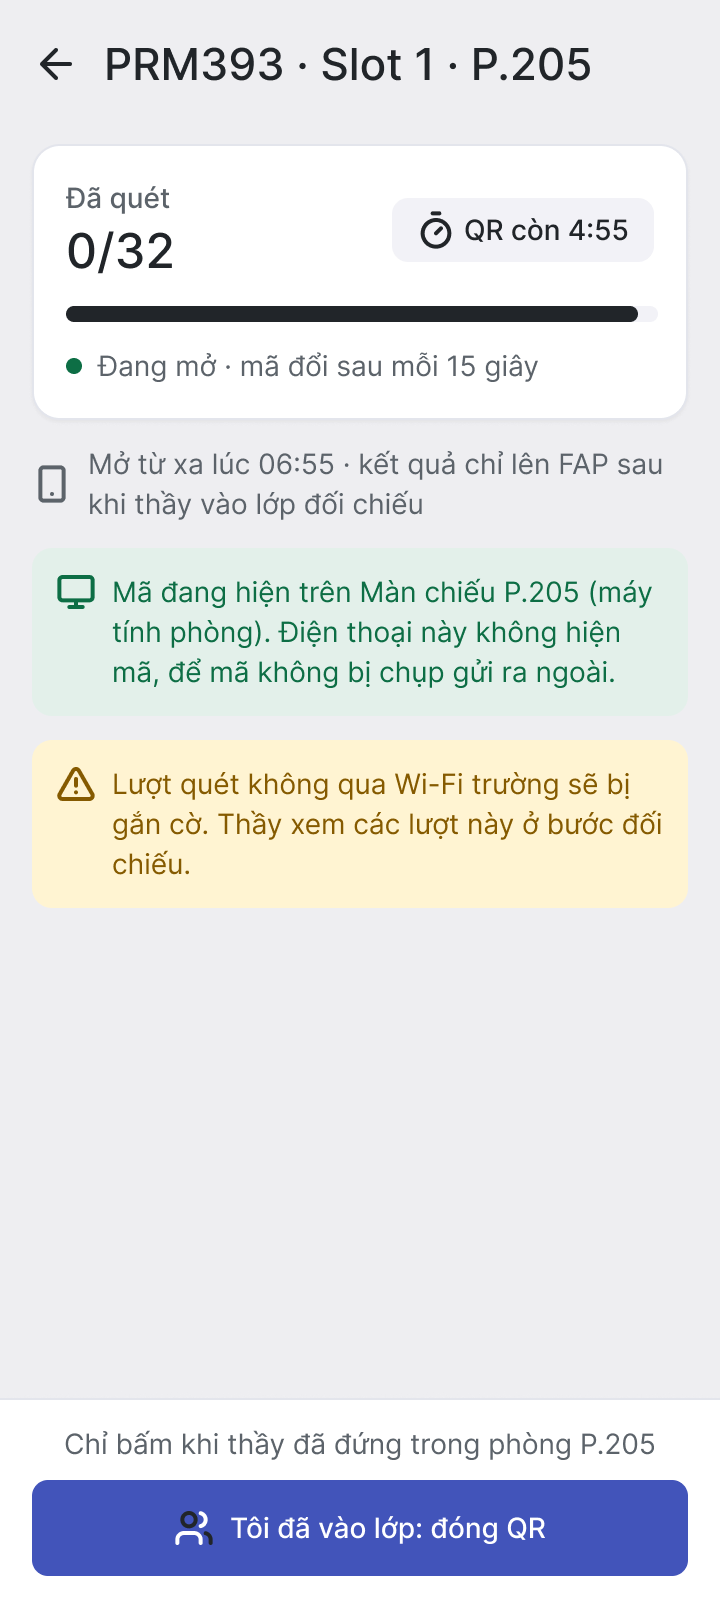
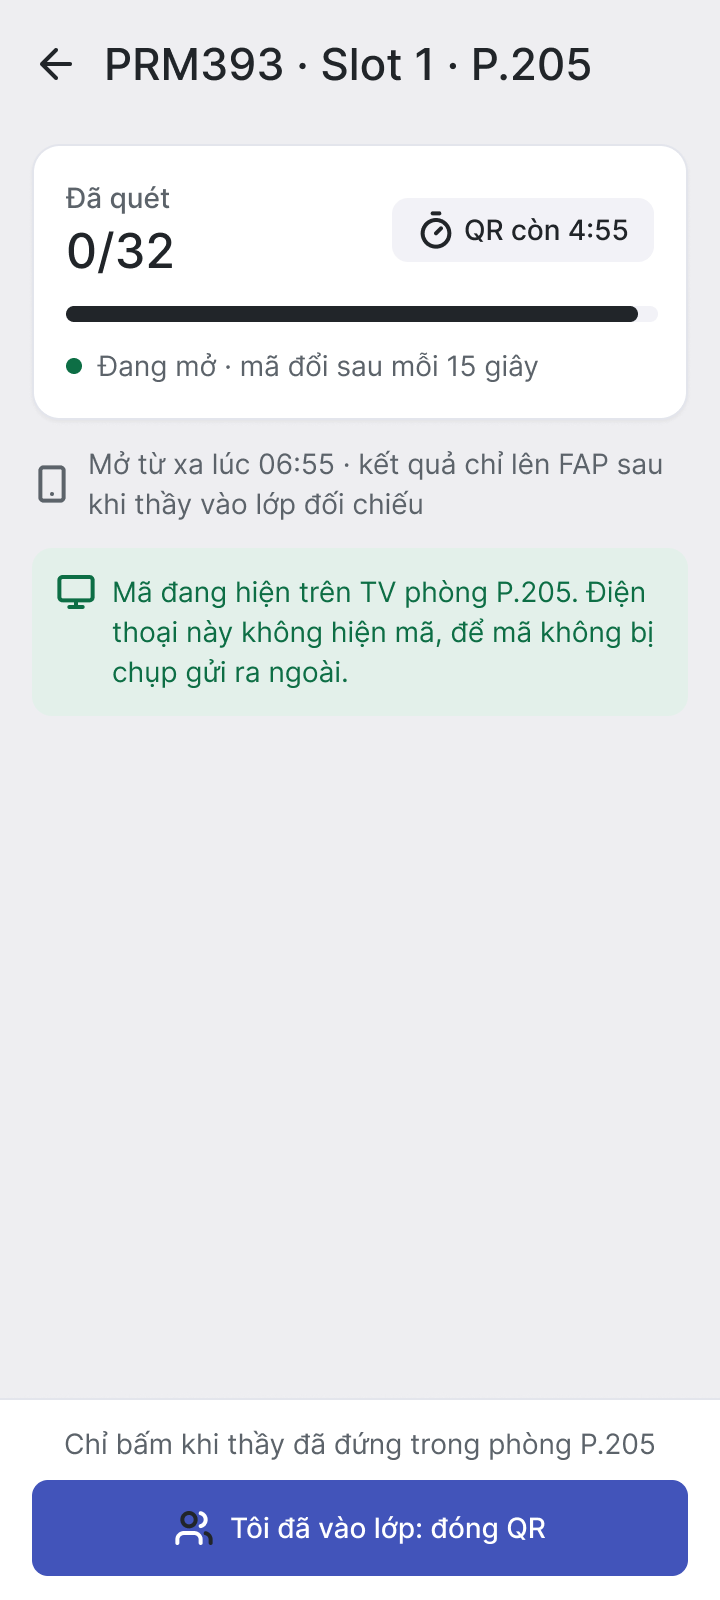
Room TV screen instead of projector, drop the Wi-Fi flag (D-24 reopened), D-07: Claude executes Figma, thien reviews
Claude-Session: https://claude.ai/code/session_01MPJuKeLL2fQwoXmpsr75wd

Changed region(s): [[0.0306, 0.3438, 0.9778, 0.5938]]

diff --git a/design/figma-build.md b/design/figma-build.md
@@ -3,7 +3,7 @@
 | Thuộc tính | Giá trị |
 |---|---|
 | Mã tài liệu | DES-FIGMA-IT3 |
-| Trạng thái | IT-3b: đã sửa theo góp ý của thien ngày 14/10, chờ thien kiểm và sửa tay (D-07) |
+| Trạng thái | IT-3b: đã sửa theo góp ý của thien ngày 14/10. Theo D-07 cập nhật, Claude thực thi, thien duyệt |
 | File Figma | [PRM323 Lab 2 · SE190533 · Điểm danh FAP](https://www.figma.com/design/9yDa2ylfREmndW1mK1hf7w) |
 | Người dựng | Claude qua Figma MCP (AI-23, AI-24), theo D-07 B |
 | Đầu vào | `design/DESIGN.md` v2, `design/component-system.md` (D-22, D-23), `ux/user-flow.md` v2, `ux/persona.md` v2, CR-01..CR-25 đã duyệt |
@@ -16,7 +16,7 @@
 |---|---|---|
 | 01 User Flow | FL-1, FL-2, FL-3 vẽ lại từ `ux/user-flow.md`, có thêm nhánh mở từ xa (K1b), chưa cấp quyền camera và mất mạng khi gửi báo sai. Mỗi ô màn hình có mã SC màu xanh, gạch chân, bấm vào là nhảy tới đúng frame (đúng biến thể) trên trang 03 | `FL-1-user-flow.png`, `FL-2-user-flow.png`, `FL-3-user-flow.png` |
 | 02 Wireframe | 15 khung lo-fi, một khung cho mỗi SC | — |
-| 03 Final UI | 46 frame 360 × 800 (15 màn và 31 biến thể trạng thái, đặt cùng hàng bên phải màn gốc) và 1 frame web 1280 × 720 "Màn chiếu P.205". Trên mỗi frame có nhãn, dưới mỗi frame có ghi chú trỏ về TC, NT, CR và giờ trong ngày | `SC-01-…png` tới `SC-15-…png`, `SC-03-mo-tu-xa.png`, `SC-03-man-chieu-p205.png` |
+| 03 Final UI | 46 frame 360 × 800 (15 màn và 31 biến thể trạng thái, đặt cùng hàng bên phải màn gốc) và 1 frame web 1280 × 720 "Màn hình phòng P.205". Trên mỗi frame có nhãn, dưới mỗi frame có ghi chú trỏ về TC, NT, CR và giờ trong ngày | `SC-01-…png` tới `SC-15-…png`, `SC-03-mo-tu-xa.png`, `SC-03-man-hinh-phong-p205.png` |
 | 04 Design System | Biến màu (Light bắt buộc, Dark tùy chọn), 7 text style Inter, khoảng cách, góc bo, 4 effect style, xem trước Light/Dark | `page-04-design-system.png` |
 | 05 Components | 35 icon Lucide và 15 component set CMP-01..CMP-15 dựng bằng Auto Layout, variant và biến token. CMP-04 có thêm 2 thuộc tính "Có báo sai mới" và "Số báo sai" | `page-05-components.png` |
 | 06 Prototype | 8 hàng, 9 điểm bắt đầu, xem mục 3 | — |
@@ -56,7 +56,7 @@ Mỗi hàng là một luồng, có tiêu đề và một dòng mô tả ở trê
 | Hàng | Điểm bắt đầu | Đường đi | Overlay, loading | Lỗi và hồi phục |
 |---|---|---|---|---|
 | FL-1 · Giảng viên điểm danh tại lớp | SC-01 | Đăng nhập → SC-02 đang tải → 06:58 → Mở điểm danh → SC-03 → đóng QR → SC-04 → SC-05 → SC-06 → xác nhận → Chờ điền lên FAP → Thử điền lại → Đã lên FAP → SC-02 07:15 | Dialog đóng QR sớm; dialog xác nhận gửi lên FAP; SC-02 đang tải 1 giây | Ở SC-04 bấm "−" để thấy số quét lớn hơn số người, "+" để về lại. "Về lịch dạy" khi đang chờ điền đưa tới SC-02 07:15 có thẻ Chờ điền lên FAP, chạm thẻ để thử lại |
-| FL-1 nhánh K1b · Mở từ xa | SC-02 06:58 | Mở từ xa → SC-03 mở từ xa (chạm khung xanh để xem trang Màn chiếu P.205) → "Tôi đã vào lớp: đóng QR" → QR đã đóng → nối vào SC-04 của FL-1 | — | Phiên mở từ xa không lên FAP trước bước đối chiếu |
+| FL-1 nhánh K1b · Mở từ xa | SC-02 06:58 | Mở từ xa → SC-03 mở từ xa (chạm khung xanh để xem trang Màn hình phòng P.205) → "Tôi đã vào lớp: đóng QR" → QR đã đóng → nối vào SC-04 của FL-1 | — | Phiên mở từ xa không lên FAP trước bước đối chiếu |
 | FL-1 lỗi · Sai tài khoản | SC-01 lỗi tài khoản | Đăng nhập lại → nối vào FL-1 | — | Có |
 | FL-2 · Sinh viên quét mã (K5) | SC-09 07:01 | Quét mã → SC-10 (chạm khung quét) → đang xác thực → Mã hết hạn → Quét lại → thành công → SC-09 chờ xác nhận → tab Báo sai (trống) | SC-11 đang xác thực 1,2 giây, hai lần | Mã hết hạn → Quét lại |
 | FL-2 lỗi · Camera và mất mạng | SC-10 chưa có quyền camera | Cấp quyền → quét → mất mạng → thử lại → thành công | SC-11 đang xác thực | Chưa cấp camera; mất mạng |
@@ -75,19 +75,19 @@ Mỗi hàng là một luồng, có tiêu đề và một dòng mô tả ở trê
 | Sheet "Không quét được?" (SC-10, SC-11) | Đã có ở Stitch IT-1, chưa có ở Figma | Dựng bằng frame có góc bo 2xl như sheet chống gian lận, nối vào FL-2 |
 | Kiểm ở bề rộng 412 dp | Checklist accessibility của đề yêu cầu | Nhân bản 3 màn, đổi rộng 412, ghi kết quả vào `design/design-decisions.md` |
 | SC-15: tên mục "Thủ tục/Đơn từ", phòng QLĐT, 2 ngày làm việc | Lấy từ `research/02-desk/fap-edit-window.md` (V01, V02), là nguồn không chính thức | thien mở FAP thật và sửa chữ nếu khác |
-| Màn chiếu P.205 giả định phòng học có máy tính nối máy chiếu | D-19 nói "máy tính trong phòng có app desktop tự hiện QR", nhưng chưa có ảnh hay nguồn | thien chụp một phòng học ở HCM, hoặc ghi rõ là giả định trên slide |
-| File nằm trong team "Ngo Gia Kiet (K18 HCM)'s team", là tài khoản edu của bạn thien, mượn để có đủ lượt gọi MCP | Giảng viên chấm D-07 bằng lịch sử phiên bản; mọi thao tác hiện mang tên chủ tài khoản | Nhờ bạn mời tài khoản của thien vào file với quyền chỉnh sửa, rồi thien làm mục 5 bằng tài khoản đó. Ghi rõ trong Disclosure |
+| File nằm trong team "Ngo Gia Kiet (K18 HCM)'s team", là tài khoản edu của bạn thien, mượn để có đủ lượt gọi MCP | Giảng viên chấm D-07 bằng lịch sử phiên bản; mọi thao tác hiện mang tên chủ tài khoản | Ghi rõ trong Disclosure: file do Claude dựng qua MCP trên tài khoản edu mượn, thien duyệt (D-07 cập nhật). Nếu kịp, nhờ bạn mời tài khoản của thien vào file để lần duyệt cuối mang tên thien |
 
-## 5. Phần thien làm tay trên Figma (D-07)
+## 5. Ai làm gì trên Figma (D-07, cập nhật 14/10)
 
-Đề cho phép AI dựng nhưng lịch sử phiên bản Figma sẽ được xem. Những việc dưới đây vừa lấp khoảng trống ở mục 4, vừa để lại dấu thao tác của người thiết kế:
+Đề không bắt sinh viên tự tay sửa Figma. Đề yêu cầu ghi đủ việc dùng AI (Disclosure), "AI generates; you decide", xem lịch sử phiên bản Figma, và có thể vấn đáp 5 phút: chạy một luồng prototype và giải thích hai quyết định trong log. Vì không kịp thời gian, Claude thực thi toàn bộ phần Figma; thien duyệt và quyết định.
 
-0. Vào file bằng tài khoản của thien (mục 4, dòng cuối).
-1. Dựng 4 trạng thái còn thiếu của SC-11 từ CMP-09.
-2. Dựng sheet "Không quét được?" và nối nó vào prototype FL-2.
-3. Kiểm 3 màn ở 412 dp, sửa chỗ vỡ nếu có.
-4. Mở FAP, kiểm lại chữ ở SC-15.
-5. Chạy cả 9 điểm bắt đầu ở chế độ Present, sửa chỗ chạm lệch, rồi lưu một phiên bản có tên trong version history (ví dụ "IT-3 thien kiểm xong").
+| Việc | Ai làm |
+|---|---|
+| Lấp các khoảng trống ở mục 4 (SC-11, sheet "Không quét được?", 412 dp) | Claude |
+| Chọn mọi điểm rẽ trên thẻ quyết định (D-xx) | thien |
+| Mở FAP thật, đối chiếu chữ ở SC-15 | thien |
+| Chạy cả 9 điểm bắt đầu ở chế độ Present, báo chỗ nào khó hiểu | thien |
+| Nắm lý do của D-21 và D-24 để trả lời khi vấn đáp | thien |
 
 ## 6. Vòng sửa IT-3b (14/10, theo góp ý của thien)
 
@@ -97,5 +97,5 @@ Mỗi hàng là một luồng, có tiêu đề và một dòng mô tả ở trê
 | Mỗi thành phần phải có lý do | Bỏ banner "2 báo sai mới" ở SC-02 (trùng huy hiệu); bỏ chip "Chưa điểm danh" ở slot chưa tới giờ; bỏ banner hạn báo sai ở SC-09 khi không có buổi nào sai (NT-4 chỉ áp dụng ở màn có báo sai); bỏ phụ đề ngày ở SC-14; bỏ chữ "Ai đang trong phòng?" ở SC-04; bỏ câu "Giảng viên sẽ kiểm tra ngẫu nhiên." ở SC-11 Mã hết hạn |
 | Giờ giấc không khớp | Dựng lại một ngày (mục 1): K5 dời về PRM393 07:01 thay cho MAS291 09:31, vì MAS291 là buổi bị Vắng ở K3; SC-02 có thêm biến thể 07:15 đã lên FAP và 12:05 có báo sai mới |
 | Thiếu trạng thái để prototype liền mạch | Thêm SC-09 "Đã quét, chờ xác nhận", SC-14 "Trống", SC-07 "Sau khi sửa" và "Sau khi từ chối" |
-| Luồng mở QR khi giảng viên ở ngoài | SC-03 mở từ xa không còn hiện mã trên điện thoại; thêm trang web "Màn chiếu P.205" gắn với phòng; nút "Tôi đã vào lớp: đóng QR" nối vào bước đối chiếu (D-24, thien chọn A) |
+| Luồng mở QR khi giảng viên ở ngoài | SC-03 mở từ xa không còn hiện mã trên điện thoại; thêm trang web "Màn hình phòng P.205" chạy trên TV của phòng, không kiểm tra mạng (D-24 vòng 2); nút "Tôi đã vào lớp: đóng QR" nối vào bước đối chiếu (D-24, thien chọn A) |
 | Prototype chưa trọn vẹn | Dựng lại trang 06 như mục 3 |

diff --git a/process/decision-log.md b/process/decision-log.md
@@ -10,7 +10,7 @@ Trạng thái: **MỞ** (chờ thien) · **CHỐT** · **TẠM** (Claude làm ti
 | D-04 | Primary Persona là ai? | A. Giảng viên · B. Sinh viên | Chưa chốt, cần nghiên cứu ở S1. Nghiêng về **A** vì nỗi đau lớn nhất (gọi tên, nhập FAP thủ công) nằm ở giảng viên; nhưng phải trả lời câu: giảng viên có thật sự dùng **điện thoại** cho việc này không, hay chiếu QR từ laptop? | A, Giảng viên | CHỐT |
 | D-05 | Có phỏng vấn người thật không? | A. 3–5 người (SV + GV), 10 phút/người · B. Chỉ Proto-Persona | **A.** Guideline yêu cầu bằng chứng hoặc gắn nhãn giả định; slide "nghiên cứu để thuyết phục hội đồng" chỉ đứng vững khi có dữ liệu thật. | Thay người thật bằng phỏng vấn mô phỏng AI: mỗi vai trò là một subagent độc lập, bộ câu hỏi khách quan, không dẫn dắt. GVHD chấp nhận dùng AI cho dữ liệu phỏng vấn. Claude phản biện: xem D-05a | CHỐT, có điều kiện D-05a |
 | D-06 | File Figma | A. File mới, dựng theo trình tự, mang token/component thienui sang · B. Sửa file 22 màn hiện có | **A.** Version history của file cũ cho thấy UI có trước nghiên cứu và Stitch, đi ngược quy trình đề yêu cầu. | A | CHỐT |
-| D-07 | Ai thao tác Stitch và Figma | A. thien thao tác, Claude viết prompt + phản biện · B. Claude dựng Figma qua connector | **A** cho Stitch (bắt buộc là bạn) và phần lớn Figma; Claude có thể dựng token/component qua connector để tiết kiệm thời gian, ghi vào Disclosure. | B, Claude dựng Figma vì thời gian quá ngắn | CHỐT |
+| D-07 | Ai thao tác Stitch và Figma | A. thien thao tác, Claude viết prompt + phản biện · B. Claude dựng Figma qua connector | **A** cho Stitch (bắt buộc là bạn) và phần lớn Figma; Claude có thể dựng token/component qua connector để tiết kiệm thời gian, ghi vào Disclosure. | B, Claude dựng Figma vì thời gian quá ngắn. **Cập nhật 14/10/2026:** thien không sửa tay Figma; vì không kịp thời gian, Claude thực thi toàn bộ phần Figma qua Figma MCP, thien là người duyệt, quyết định mọi điểm rẽ (D-xx) và tự chạy thử prototype. Ghi trong Disclosure | CHỐT |
 | D-08 | Ngôn ngữ tài liệu, UI và slide; ngày thuyết trình | Tiếng Việt / Tiếng Anh | UI tiếng Việt (người dùng thật là SV/GV FPTU). Tài liệu theo ngôn ngữ giảng viên dùng khi chấm. | Tiếng Việt; bản tiếng Anh dự phòng làm sau cùng. Thuyết trình 14:30 thứ Sáu 16/10/2026. Stitch: Claude thử điều khiển trình duyệt trên máy thien; không được thì thien thao tác theo prompt Claude viết | CHỐT |
 | D-05a | Phỏng vấn mô phỏng được ghi nhãn và kiểm soát thiên lệch thế nào? | A. Chỉ mô phỏng · B. Mô phỏng + tự quan sát của thien (là SV thật) + 1–2 cuộc trò chuyện thật 5 phút để kiểm chứng | **B.** Xem `research/01-plan/simulated-interview-method.md`. Dữ liệu mô phỏng ghi nhãn **Simulated**, không bao giờ là Observed. | B. Thêm tùy chọn: Google Form khảo sát nhanh qua thầy hoặc bạn cùng nhóm (nhãn Survey, chỉ mang tính tham khảo) | CHỐT |
 | D-09 | Danh sách người được phỏng vấn mô phỏng | Xem `research/04-participants/roster.md` | 8 người: 4 GV, 3 SV, 1 cán bộ đào tạo; có cả người hoài nghi/không muốn dùng app. | Cá nhân hóa theo bối cảnh FPTU HCM; 11 người theo 4 nhóm thái độ (`research/04-participants/roster.md`), duyệt 13/10/2026 | CHỐT |
@@ -28,4 +28,4 @@ Trạng thái: **MỞ** (chờ thien) · **CHỐT** · **TẠM** (Claude làm ti
 | D-21 | Chống gian lận khi QR chiếu chung (D-19) | A. Chỉ lớp nền của app thật (tài khoản, danh sách lớp, QR 15 giây) · B. Thêm một máy một người, đối chiếu sĩ số, kiểm tra ngẫu nhiên 3 SV có ảnh FAP; phiên mở từ xa phải chờ GV xác nhận rồi mới điền FAP · C. B cộng kiểm tra wifi trường hoặc GPS | **B.** Không biện pháp kỹ thuật nào chặn hết (RES-DESK-QR); bỏ đọc tên là bỏ lớp kiểm soát con người duy nhất, nên phải đưa lại một bước người kiểm tra. Kiểm tra ngẫu nhiên 3/32 mỗi buổi cho xác suất bắt được người quét hộ ≈ 86% qua 20 buổi. C chặn oan SV dùng 4G (Q30) và đụng dữ liệu vị trí. Xem `ux/attendance-integrity.md` | **B** (thien chọn trên thẻ quyết định, 14/10/2026) | CHỐT |
 | D-22 | Hệ component và biểu tượng cho bản cuối | A. Giữ component theo M3 và Remix Icon như DESIGN.md v2 · B. Cấu trúc shadcn + Lucide, giữ màu FAP (D-20) và font Roboto, ghi đè kích thước cho di động (48 dp, chữ ≥ 14 sp) · C. shadcn nguyên bản, kể cả bảng màu mặc định | thien thấy IT-0 chưa elegant, muốn dùng shadcn + Lucide (14/10/2026). Đề xuất B: căn cứ ở DES-SYSTEM (`design/component-system.md`) mục 2. C mâu thuẫn D-20 | **B** (thien chọn trên thẻ quyết định, 14/10/2026) | CHỐT |
 | D-23 | Font của bản thiết kế | A. Roboto: FAP mới dùng (O-02.5, Observed) · B. Inter: web, mobile của app FAP Attendance đang dùng (DES-SYSTEM mục 0, Observed) | Đề xuất B. Người dùng ít nhận ra khác biệt giữa hai font không chân cùng họ neo-grotesque (suy luận, chưa có nghiên cứu), nên lợi ích "giống FAP" nhỏ. Còn nhất quán với sản phẩm thật thì thấy rõ và không tốn công đổi. Cả hai đủ dấu tiếng Việt | **B · Inter** (thien chọn trên thẻ quyết định, 14/10/2026) | CHỐT |
-| D-24 | Khi GV mở điểm danh từ xa (K1b), QR hiện ở đâu để SV quét? | A. Trang web "Màn chiếu P.205" gắn với máy tính phòng nối máy chiếu, mã tự hiện khi GV bấm Mở từ xa · B. Trang web ai có link cũng mở được (đúng nguyên văn gợi ý của GVHD) · C. Không dùng QR: nút "Điểm danh" trong app khi phiên mở (ý ban đầu của thien) | **A.** C chỉ chứng minh SV có tài khoản, không chứng minh có mặt: SV ở nhà và người điểm danh hộ đều qua được, đúng lo ngại của thien. B có link là quét được từ nhà trên laptop; chỉ còn bước đếm sĩ số để bắt. A giữ ý GVHD (dùng trang web) nhưng chỉ người trong phòng thấy mã; mã đổi sau 15 giây; lượt quét không qua Wi-Fi trường (FPTU_Students, AI-05) bị **gắn cờ, không chặn**, khác D-21 C ở chỗ chỉ áp dụng cho phiên mở từ xa và không chặn SV dùng 4G. Với cả ba cách, phiên mở từ xa vẫn giữ Chờ xác nhận tới khi GV vào lớp đối chiếu (D-21 B). Giả định: phòng học HCM có máy tính phòng nối máy chiếu (khớp D-19 "máy tính trong phòng có app desktop"), chưa có ảnh xác nhận | **A · Web gắn với phòng** (thien chọn trên thẻ quyết định, 14/10/2026), gồm cả việc gắn cờ lượt quét ngoài Wi-Fi trường | CHỐT |
+| D-24 | Khi GV mở điểm danh từ xa (K1b), QR hiện ở đâu để SV quét? | Vòng 1: A. Web gắn với phòng, gắn cờ lượt quét ngoài Wi-Fi trường · B. Web ai có link cũng mở · C. Nút "Điểm danh" trong app. Vòng 2 (sau khi thien mở lại): A. Màn hình phòng, không kiểm tra mạng · B. Màn hình phòng, thêm một lượt quét xác nhận khi GV tới · C. Bỏ mở từ xa | Vòng 1 Claude khuyên A; thien chọn A rồi mở lại vì gắn cờ Wi-Fi là một phần của D-21 C đã bị bỏ. **Vòng 2 khuyên A:** QR chỉ hiện trên màn hình phòng (đa số là TV màn hình lớn, số ít máy chiếu: thien quan sát 14/10/2026), mã đổi sau 15 giây, không dùng mạng hay vị trí, nên đúng D-21 B. Người quét từ ngoài bị bắt ở bước đếm sĩ số và kiểm tra ngẫu nhiên khi GV vào lớp, giống phiên mở tại lớp. B chặn chắc hơn nhưng cả lớp phải quét 2 lần. C bỏ gợi ý của GVHD và K1b. Nút trong app (vòng 1 C) không chứng minh có mặt | Vòng 1: A (14/10/2026), sau đó thien mở lại. Vòng 2: chờ thien trả lời thẻ; Figma đã bỏ phần gắn cờ Wi-Fi | TẠM |

diff --git a/ux/user-flow.md b/ux/user-flow.md
@@ -62,7 +62,7 @@ graph TD
 |---|---|---|---|---|---|
 | SC-01 | Đăng nhập | Cả hai | FL-1, FL-2 | — | Mặc định, đang tải, lỗi tài khoản không thuộc FPTU |
 | SC-02 | Lịch dạy hôm nay | GV | FL-1, FL-3 | N-04, N-11 | Slot sắp tới (nút "Mở điểm danh"), đang mở, chờ xác nhận, chờ điền lên FAP, đã lên FAP, có báo sai mới |
-| SC-03 | Phiên điểm danh: QR đang mở | GV | FL-1 | N-04 | Mở tại lớp, **mở từ xa** (mã chỉ hiện trên trang web Màn chiếu P.205, D-24), laptop chưa kết nối, sắp đóng, đã đóng; dòng có cờ "Cùng thiết bị" |
+| SC-03 | Phiên điểm danh: QR đang mở | GV | FL-1 | N-04 | Mở tại lớp, **mở từ xa** (mã chỉ hiện trên màn hình phòng P.205, D-24), laptop chưa kết nối, sắp đóng, đã đóng; dòng có cờ "Cùng thiết bị" |
 | SC-04 | Đối chiếu sĩ số | GV | FL-1 | N-04 | Khớp, số quét lớn hơn số người (chỉ ra người quét cuối, quét sát lúc mã đổi), số quét nhỏ hơn số người |
 | SC-05 | Kiểm tra ngẫu nhiên | GV | FL-1 | N-04 | 3 thẻ có ảnh FAP; Đúng người, Không có mặt |
 | SC-06 | Xem lại và xác nhận | GV | FL-1 | N-03, N-11 | Ghi tay người đến muộn kèm giờ, còn cờ chưa xử lý, đã xác nhận: Chờ điền lên FAP, Đã lên FAP, extension lỗi |
@@ -88,7 +88,7 @@ Ba flow được chấm điểm. Flow nào cũng có nhánh lỗi. FL-3 là flow
 
 ### FL-1 · Điểm danh một slot bằng QR (P-01, kịch bản K1 và K1b)
 
-Mục tiêu: từ lúc mở QR tới lúc xác nhận xong trong ≤ 2 phút 30 giây, không sai lệch, và phát hiện được quét hộ (TC-1, TC-3, TC-7). Nhánh lỗi: số quét không khớp số người; laptop chưa kết nối; extension chưa điền được. Nhánh K1b (D-24): mã chỉ hiện trên trang web "Màn chiếu P.205" gắn với máy tính phòng, không hiện trên điện thoại của GV, để người ở ngoài phòng không thấy mã.
+Mục tiêu: từ lúc mở QR tới lúc xác nhận xong trong ≤ 2 phút 30 giây, không sai lệch, và phát hiện được quét hộ (TC-1, TC-3, TC-7). Nhánh lỗi: số quét không khớp số người; laptop chưa kết nối; extension chưa điền được. Nhánh K1b (D-24): mã chỉ hiện trên trang web "Màn hình phòng P.205" chạy trên TV (hoặc máy chiếu) của phòng, không hiện trên điện thoại của GV, để người ở ngoài phòng không thấy mã.
 
 ```mermaid
 flowchart TD
@@ -97,8 +97,8 @@ flowchart TD
     C -->|Có| D["Mở điểm danh"]
     C -->|Không, K1b| D2["Mở điểm danh từ xa<br/>(phiên gắn nhãn Mở từ xa)"]
     D --> E{"Laptop trong phòng<br/>đã kết nối?"}
-    D2 --> E2{"Màn chiếu P.205<br/>(web trên máy phòng) đang mở?"}
-    E2 -->|Rồi| F2["SC-03 · Mở từ xa: mã chỉ hiện trên Màn chiếu P.205,<br/>điện thoại GV chỉ đếm số đã quét (D-24)"]
+    D2 --> E2{"Màn hình phòng P.205<br/>(TV hoặc máy chiếu) đang mở trang QR?"}
+    E2 -->|Rồi| F2["SC-03 · Mở từ xa: mã chỉ hiện trên màn hình phòng P.205,<br/>điện thoại GV chỉ đếm số đã quét (D-24)"]
     E2 -->|Chưa| E3["Không mở từ xa được,<br/>mở khi GV vào lớp"]
     E3 -.-> D
     F2 --> G

diff --git a/ai/ai-design-log.md b/ai/ai-design-log.md
@@ -33,7 +33,7 @@ Ghi theo thứ tự thời gian, mỗi lần dùng AI có một mã `AI-nn` (xem
 
 ## AI-23 — Dựng file Figma (14/10/2026)
 
-- **Công cụ:** Claude gọi Figma MCP (`use_figma`, Plugin API) từ Claude Code. Theo D-07 B vì thời gian ngắn; thien vẫn phải làm tay phần ở `design/figma-build.md` mục 5.
+- **Công cụ:** Claude gọi Figma MCP (`use_figma`, Plugin API) từ Claude Code. Theo D-07 B vì thời gian ngắn; sau đó (D-07 cập nhật 14/10) Claude thực thi cả phần còn lại, thien duyệt (`design/figma-build.md` mục 5).
 - **Output:** file [Figma](https://www.figma.com/design/9yDa2ylfREmndW1mK1hf7w), ghi chép `design/figma-build.md`, ảnh `assets/figma/`.
 - **Tự kiểm:** chụp lại từng màn sau khi dựng và sửa các lỗi dựng hình (thuộc tính chữ dùng chung làm mọi chip cùng một nhãn, scrim đục hẳn, hàng danh sách đè nhau, chữ cái avatar sai, ô lý do không giãn theo nội dung…). Script đọc toàn bộ reaction ở trang 06 xác nhận không có ngõ cụt.
 - **Sửa nội dung nhờ đối chiếu nghiên cứu:** bản đầu của SC-15 ghi thời gian xử lý đơn là "vài ngày (Assumed)". Đối chiếu `research/02-desk/fap-edit-window.md` thì đã có nguồn V01, V02: mục Thủ tục/Đơn từ, phòng QLĐT, 2 ngày làm việc. Màn được sửa theo nguồn.
@@ -44,7 +44,7 @@ Ghi theo thứ tự thời gian, mỗi lần dùng AI có một mã `AI-nn` (xem
 - **Góp ý của thien:** huy hiệu số bị che; mỗi thành phần phải có mục đích; prototype phải nối trọn vẹn; xử lý thế nào khi giảng viên mở QR lúc đang ở ngoài (GVHD gợi ý một trang web hiện QR; thien lo nút "Điểm danh" trong app làm SV ở nhà cũng điểm danh được).
 - **Phản biện của Claude:** đồng ý với lo ngại của thien, nút trong app không chứng minh có mặt. Đề xuất trang web gắn với phòng thay vì link công khai (D-24; thien chọn A trên thẻ quyết định).
 - **Tự kiểm:** rà từng frame và bỏ 6 thành phần không có việc gì để làm (mục 6 của `design/figma-build.md`). Phát hiện mâu thuẫn giờ: SC-11 báo SV quét MAS291 lúc 09:31 trong khi SC-09 buổi tối ghi MAS291 "không có lượt quét". Sửa bằng một dòng thời gian chung cho cả ngày. Script đọc reaction trang 06: 59 frame, 9 điểm bắt đầu, 0 đích hỏng, không frame nào thiếu lối ra.
-- **Giới hạn:** giả định phòng học có máy tính nối máy chiếu chưa có bằng chứng; lượt quét ngoài Wi-Fi trường chỉ gắn cờ.
+- **Điều chỉnh sau góp ý thứ hai của thien:** phòng học HCM đa số có TV màn hình lớn nên đổi "Màn chiếu" thành "Màn hình phòng"; bỏ việc gắn cờ lượt quét ngoài Wi-Fi trường vì trùng D-21 C mà thien đã bỏ (D-24 vòng 2). Theo D-07 cập nhật, Claude thực thi phần Figma còn lại, thien duyệt.
 
 ## AI-03 — Kiểm định thiên lệch bộ câu hỏi (13/10/2026)
 

diff --git a/process/traceability-matrix.md b/process/traceability-matrix.md
@@ -41,7 +41,7 @@ Nguồn (S/H, R, O, T, Survey) → Phát hiện F → Nhu cầu N → Persona P 
 |---|---|---|---|
 | SC-01 | CMP-01 | Trang 03, hàng SC-01: Default; Lỗi tài khoản | `handoff/flutter-handoff.md` (S5) |
 | SC-02 | CMP-03, CMP-10, CMP-01, CMP-04, CMP-05, CMP-07 (skeleton) | Trang 03, hàng SC-02: Default 06:58; Sau slot 1, chờ điền lên FAP; Đang tải; Sau slot 1, đã lên FAP; Có báo sai mới | `handoff/flutter-handoff.md` (S5) |
-| SC-03 | CMP-05, CMP-14 (Đang mở, Đã đóng), CMP-11, CMP-10, CMP-01, CMP-06 (Confirmation) | Trang 03, hàng SC-03: Default; QR đã đóng; Mở từ xa; Dialog đóng QR sớm; trang web Màn chiếu P.205 (D-24) | `handoff/flutter-handoff.md` (S5) |
+| SC-03 | CMP-05, CMP-14 (Đang mở, Đã đóng), CMP-11, CMP-10, CMP-01, CMP-06 (Confirmation) | Trang 03, hàng SC-03: Default; QR đã đóng; Mở từ xa; Dialog đóng QR sớm; trang web Màn hình phòng P.205 (D-24) | `handoff/flutter-handoff.md` (S5) |
 | SC-04 | CMP-05, CMP-11, CMP-01 | Trang 03, hàng SC-04: Default (khớp); Số quét lớn hơn số người | `handoff/flutter-handoff.md` (S5) |
 | SC-05 | CMP-05, CMP-15, CMP-01 | Trang 03, hàng SC-05: Default 1/3; Đã kiểm tra 3/3 | `handoff/flutter-handoff.md` (S5) |
 | SC-06 | CMP-05, CMP-11, CMP-10, CMP-01, CMP-06 (Confirmation) | Trang 03, hàng SC-06: Default; Dialog xác nhận; Chờ điền lên FAP; Đã lên FAP | `handoff/flutter-handoff.md` (S5) |
